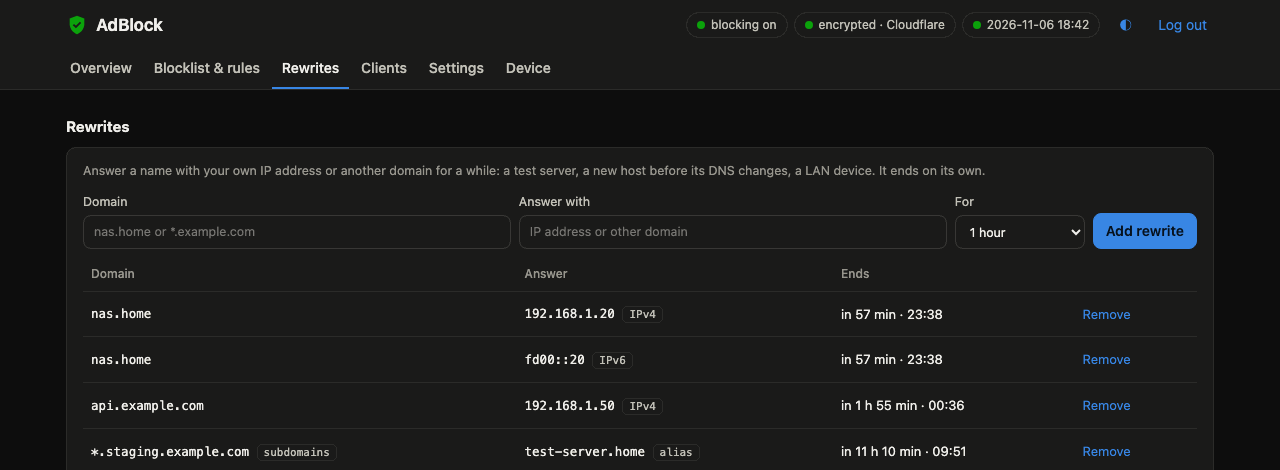
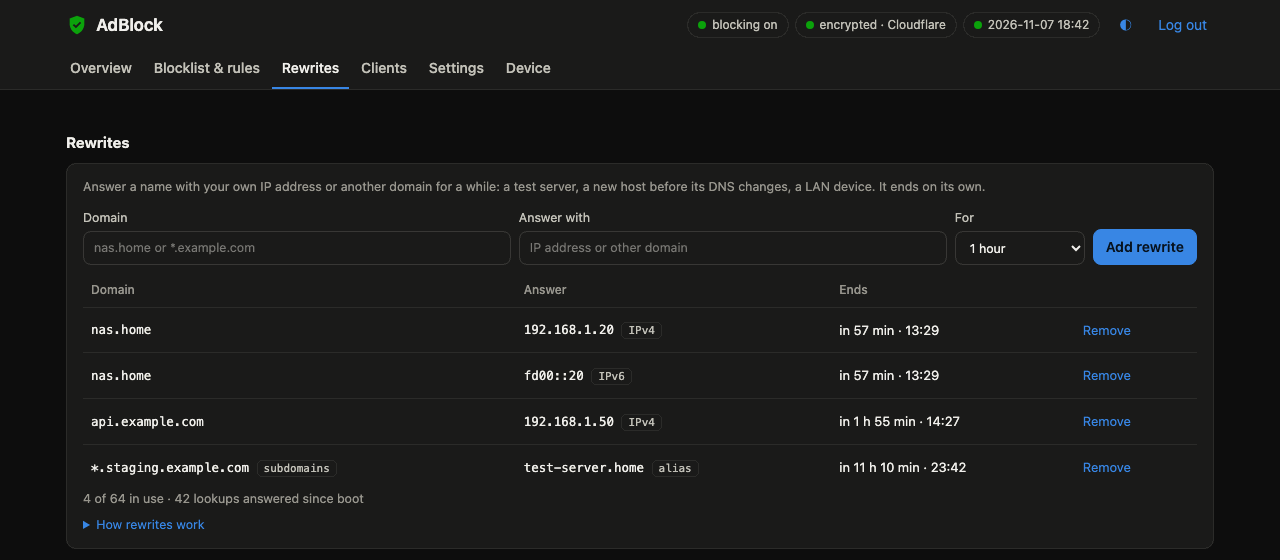
docs: document settings backup and scheduled reboot; new screenshots
- README: highlights, features, a Settings screenshot, sections on
  backup/restore and scheduled reboot, time zone dropdown in quick start;
  the Rewrites screenshot is recaptured so it no longer ends mid-row.
  Images palette-compressed (FASTOCTREE, ~70% smaller).
- ARCHITECTURE: §8 rewritten to match the code (form fields, not JSON),
  §8.1 settings file format and import rules, §8.2 reboot rules, module
  list and PSRAM budget.
- Skills: new test folders (native-tests); dropdown helpers, time zone
  table and headless-Chrome capture gotchas (web-ui).

diff --git a/docs/ARCHITECTURE.md b/docs/ARCHITECTURE.md
@@ -98,14 +98,17 @@ lib/core/                     portable C++17, unit-tested natively (pio test -e 
               matcher.{h,cpp}     custom allow/block sets + parent-domain matching
   rules/      rewrites.{h,cpp}    timed DNS rewrites: input validation, exact/wildcard
                                   matching, alias chains, loop checks, /rewrites.txt
+              rule_domain.{h,cpp} normal form of custom block/allow rule domains
   cache/      response_cache.{h,cpp}  fixed-pool LRU + TTL, slab payloads
   upstream/   transport.h         ITransport (strategy interface)
               framing.{h,cpp}     DoT 2-byte length framing, DoH HTTP/1.1 codec
               health.{h,cpp}      per-upstream health state machine
               forwarder.{h,cpp}   ordered fallback chain, in-flight table, hedging
   sched/      daily_scheduler.{h,cpp}  02:00 local trigger, retry, dedupe
+              reboot_schedule.{h,cpp}  optional daily/weekly reboot (§8.2)
   update/     updater.{h,cpp}     download -> validate -> swap, boot recovery
   config/     config.{h,cpp}      settings, validation, NVS, upstream chain builder
+              backup.{h,cpp}      settings file export/import and validation (§8.1)
   auth/       auth.{h,cpp}        password hashing, setup code, lockout, Host/Origin,
                                   login sessions
   diag/       restart.{h,cpp}     restart cause names, crash-record summary and
@@ -114,7 +117,8 @@ lib/core/                     portable C++17, unit-tested natively (pio test -e 
               pause_timer.h       pause blocking for N s or until resumed (64-bit ms)
   hal/        clock.h, random.h, kv_store.h, file_system.h, http_client.h,
               logger.h            hardware-abstraction interfaces
-  util/       crc32, sha256 (+HMAC, PBKDF2), civil_time, bytes
+  util/       crc32, sha256 (+HMAC, PBKDF2), civil_time (+weekday, HH:MM), bytes,
+              json (settings-file reader/writer)
 
 src/                          ESP32 only (Arduino core 3.3.12 / ESP-IDF 5.5)
   main.cpp                    composition root: builds objects, injects
@@ -671,25 +675,76 @@ automatically. This is a circuit-breaker with exponential backoff.
 
 ## 8. Configuration
 
-- **`Config` struct** (core, validated):
-  - upstream list and order;
-  - `allow_plain_fallback`, EDNS padding, AD pass-through;
-  - `blocked_ttl`;
-  - blocklist URL, update hour/minute (default 02:00), timezone (default
-    `UTC0`);
-  - cache size, local-answer toggles, dashboard user and password hash.
-- **Storage:** stored in NVS through `IKeyValueStore` (namespace `cfg`, with a
-  `schema` version key for migrations).
-- **Dashboard updates:** `POST /api/config` takes JSON. The values are validated,
-  stored, and applied live where possible (upstreams, TTLs, schedule); otherwise
-  the device reboots.
+- **`config::AppConfig`** (`lib/core/config`, validated field by field with
+  `setField()` and as a whole with `validate()`): upstream providers and the custom
+  DoT server, DoH and plain fallbacks, padding, AD pass-through, blocked TTL, local
+  answer toggles, time zone (POSIX TZ, default `UTC0`), log level, and the reboot
+  schedule (`rb_mode`, `rb_day`, `rb_time`). The blocklist URL and update time belong
+  to `BlocklistManager` (own NVS keys); rules and bans live in LittleFS files.
+- **Storage:** NVS through `IKeyValueStore`, one key per field plus `cfg_ver`
+  (schema version; firmware never loads settings written by a newer schema). New keys
+  are additive: older settings load with defaults for them.
+- **Dashboard updates:** `POST /api/config` takes form fields named like the NVS keys.
+  The batch is validated, saved, and applied live (time zone, log level, reboot
+  schedule); upstream changes restart the device (`requiresRestart()`).
 - **`secrets.h`** (gitignored; `secrets.example.h` is committed) only provides
-  first-boot defaults:
-  - optional Wi-Fi credentials;
-  - initial dashboard password;
-  - OTA password;
-  - optional firmware-signing public key.
-  - Values set on the dashboard override them.
+  first-boot defaults: optional Wi-Fi credentials, the initial dashboard password and
+  the OTA password. Values set on the dashboard override them.
+
+### 8.1 Settings file (export / import)
+
+`lib/core/config/backup.{h,cpp}` with a small JSON reader/writer (`util/json`). A file
+(abridged: `settings` holds every `config::kKeys` entry):
+
+```json
+{
+  "format": "esp32-s3-adblock-settings",
+  "version": 1,
+  "firmware": "0.4.0",
+  "hostname": "s3adblock",
+  "exported": "2026-11-07 14:02",
+  "settings": { "up_pri": "cloudflare", "pad": true, "blk_ttl": 10, "rb_mode": "weekly" },
+  "blocklist": { "url": "", "time": "02:00" },
+  "rules": { "block": ["ads.example.com"], "allow": [] },
+  "bans": ["192.168.1.50"]
+}
+```
+
+- **Export** (`GET /api/settings/export`, logged in): always complete. `url` is empty
+  for the built-in list, so a later default change still applies. Never includes
+  passwords, Wi-Fi credentials, rewrites (temporary) or statistics.
+- **Import** (`POST /api/settings/import`, multipart, logged in + CSRF checks): the
+  upload goes into one PSRAM buffer sized from Content-Length (at most 640 KB:
+  2 × 1000 rules of 253 characters), then `parseBackup()` validates the **whole** file
+  before anything is applied. Settings go through the same `setField()`/`validate()` as
+  the form (starting from the current values, so a file with a few keys changes only
+  those); rule domains use the same normal form as the dashboard
+  (`rules/rule_domain`), duplicates collapse; bans must be IPv4. The first problem is
+  reported with its path (`rules.block: invalid domain "…"`).
+- **Semantics:** a section present replaces that part (rules and bans as whole lists);
+  a missing section leaves it unchanged. `format` and `version` are required; a higher
+  `version` is refused (newer firmware), unknown keys are skipped and counted, so a
+  file from newer firmware with only new keys still imports.
+- **Parser limits** (hostile input): strict RFC 8259 syntax, nesting depth 16,
+  unsigned integers only, strings longer than their field are errors (never
+  truncated), `\u0000` and lone surrogates rejected, values decoded before validation.
+- **Apply order:** settings are saved to NVS first; if that fails nothing else changes.
+  Then blocklist URL/time, rules, bans. An upstream change restarts the device.
+
+### 8.2 Scheduled reboot
+
+`lib/core/sched/reboot_schedule.{h,cpp}`, checked every 2 s from `loop()`:
+
+| Rule                     | Why                                                                                         |
+| ------------------------ | ------------------------------------------------------------------------------------------- |
+| Clock synced, year valid | no reboot at a time nobody chose                                                            |
+| 60-minute window         | a busy board (firmware upload in progress) or a DST gap still gets it; no catch-up later on |
+| Started < 10 min before  | it has just restarted: skip the day (also stops a loop if NVS can't be written)             |
+| `rb_last` = slot date    | saved before restarting: never twice for one day, also across DST's repeated hour           |
+
+The date recorded is the slot's own day, so a 23:30 slot that fires at 00:10 belongs
+to the day before. The restart reason (`scheduled reboot (weekly, Sun 04:00)`) is kept
+in RTC memory like every deliberate restart.
 
 ---
 
@@ -841,6 +896,7 @@ blocks in one piece each, so watch the largest free block (`heapBlock` in
 | Pending-query pool (32 slots × ~5.7 KB: query, rewrite chain, reply buffer) | 0.18 MB                                                                                                                                                                                             |
 | DNS rewrite table (64 entries × ~550 B)                                     | 35 KB                                                                                                                                                                                               |
 | Stats, client table (256 clients), custom sets                              | < 0.2 MB                                                                                                                                                                                            |
+| Settings import buffer (only while an import runs, §8.1)                    | up to 0.64 MB, sized from the request; refused with 507 if it does not fit                                                                                                                          |
 | **Free**                                                                    | about 0.8 MB at a 1M-name list (4.06 MiB list + 2.75 MiB cache + pools), before Wi-Fi/lwIP buffers offloaded to PSRAM. Two 1M lists never fit: the update swaps through the file-backed bridge (§6) |
 
 ### Sockets (lwIP: `CONFIG_LWIP_MAX_SOCKETS = 16`, fixed in the prebuilt libs)

diff --git a/README.md b/README.md
@@ -41,6 +41,7 @@ blocklist every day on its own**. No Raspberry Pi, no SD card, no OS to patch.
 | **Fast**                               | Blocklist and answer cache live in RAM: repeat lookups are answered in milliseconds.                          |
 | **Dashboard**                          | `http://s3adblock.local`: live stats, clients, your own block/allow rules, pause blocking, settings.          |
 | **Temporary DNS rewrites**             | Point a name at your own IP or another domain for 15 min to 24 h (`nas.home → 192.168.1.20`); ends by itself. |
+| **Backup and scheduled reboot**        | Export all settings and rules to one file and import them on any board; optional daily or weekly reboot.      |
 | **Secure by default**                  | Password set with a one-time code from the serial console, login lockout, CSRF and DNS-rebinding guards.      |
 | **Tiny and low-power**                 | Runs from any stable 5 V USB supply; no computer to keep running.                                             |
 
@@ -132,8 +133,10 @@ The dashboard always opens on a login screen and shows nothing before you log in
 stay logged in while it is open (up to 24 h); _Log out_ is in the top bar, and
 changing the password logs out every browser.
 
-While you're there, set your **time zone** under _Settings → Privacy & blocking_
-(default `UTC0`) so the daily list update runs at night for you.
+While you're there, pick your **time zone** under _Settings → Time & scheduled reboot_
+(default UTC; the page offers your browser's zone) so the daily list update runs at
+night for you. Restoring a board? _Device → Backup & restore → Import settings_ brings
+back everything you exported before.
 
 ### 4. Point your network at it
 
@@ -179,11 +182,17 @@ and the _Overview_ should show a rising share of queries blocked.
   bad firmware updates, Wi-Fi supervision.
 - **Self-updating blocklist**: daily at 02:00 local time (configurable). Unchanged
   lists aren't downloaded again (ETag); a bad download never replaces the working list.
+- **Backup and restore**: export every setting, the reboot schedule, the blocklist
+  URL and time, your block/allow rules and banned clients to one JSON file, and import
+  it on the same or a new board. A file with an error changes nothing.
+- **Scheduled reboot** (optional): every day or once a week at a time you pick, in
+  the device's time zone, never twice in a day and never right after a start.
 - **Privacy extras**: query padding, DNSSEC "validated" flag pass-through, local
   answers for private names, and Firefox's DoH canary so Firefox keeps using it.
 - **Dashboard** at `http://s3adblock.local`: live stats, upstream health, clients,
-  block/allow rules, DNS rewrites, pause blocking, settings, firmware and blocklist
-  uploads, and a one-click update check.
+  block/allow rules, DNS rewrites, pause blocking, settings (with dropdowns for time
+  zones, times and TTLs), firmware and blocklist uploads, settings backup, and a
+  one-click update check.
 - **Secure by default**: hashed dashboard password set with a one-time code from the
   serial console, login lockout, CSRF and DNS-rebinding checks, HTTPS-only list
   downloads, LAN-only DNS answers.
@@ -272,7 +281,12 @@ Design details, memory budget and threading: [docs/ARCHITECTURE.md](docs/ARCHITE
 Everything is on the dashboard at `http://s3adblock.local` (stored in flash/NVS,
 survives updates). Its overview shows the block rate, live queries per minute, how
 queries were answered, upstream health and per-client totals; the charts are drawn from
-what the page has seen since it opened (light and dark themes):
+what the page has seen since it opened (light and dark themes).
+
+<picture>
+  <source media="(prefers-color-scheme: dark)" srcset="docs/img/settings-dark.png" />
+  <img src="docs/img/settings-light.png" alt="The Settings tab: upstream DNS, privacy options, a blocked-answer TTL dropdown, and a time zone dropdown with a weekly reboot on Sunday at 04:00" width="100%" />
+</picture>
 
 | Setting                                                                           | Default                                                    |
 | --------------------------------------------------------------------------------- | ---------------------------------------------------------- |
@@ -282,12 +296,41 @@ what the page has seen since it opened (light and dark themes):
 | Blocked answer TTL                                                                | 10 s                                                       |
 | Firefox DoH canary / iCloud Private Relay opt-out / local private reverse lookups | on / off / on                                              |
 | Blocklist URL and daily update time                                               | this repo's daily list, 02:00                              |
-| Time zone                                                                         | `UTC0` (POSIX TZ string; `<+03>-3` = UTC+3, sign inverted) |
+| Time zone                                                                         | UTC (50 zones in a dropdown, or any POSIX TZ string)       |
+| Scheduled reboot                                                                  | never (or every day / every week at a set time)            |
 | Custom block / allow rules, banned clients, pause                                 |                                                            |
 | DNS rewrites (up to 64, each 15 min to 24 h)                                      | none                                                       |
 
 `src/secrets.h` only holds first-boot defaults (Wi-Fi, initial dashboard password, the
 network OTA password). It is gitignored.
+
+### Backup and restore
+
+_Device → Backup & restore → Export settings_ downloads one JSON file
+(`s3adblock-settings-<date>-<time>.json`) with everything in the table above except
+DNS rewrites, plus your block/allow rules and banned clients. **Passwords and Wi-Fi
+are never in it**, so it is safe to keep with your notes. _Import settings_ takes that
+file back, on the same board after an erase or on a second board:
+
+- The whole file is checked first; one bad value (named in the error, e.g.
+  `rules.block: invalid domain "ads..com"`) and nothing changes.
+- Each section in the file replaces that part of the device (rules and bans as whole
+  lists); a section you delete from the file leaves that part as it is. You can edit
+  the file by hand.
+- Changing the upstream DNS restarts the device; everything else applies at once.
+- Scripts: `curl -u admin:<password> http://s3adblock.local/api/settings/export -o settings.json`
+  and `curl -u admin:<password> -H 'X-Requested-With: adblock' -F f=@settings.json http://s3adblock.local/api/settings/import`.
+
+### Scheduled reboot
+
+The device doesn't need regular restarts, but if you want one (for example after a
+router that misbehaves until clients reconnect), set _Settings → Time & scheduled
+reboot_ to _Every day_ or _Every week_ and pick the day and time (device time zone).
+The dashboard shows the next one. It waits for the clock to be set, never reboots
+twice in one day (also when daylight saving time repeats an hour), skips a day if the
+device started less than 10 minutes before, and if it was off or busy (installing
+firmware) at that time it tries for an hour and then waits for the next one. The
+reason shows under _Device → Health → Last restart_.
 
 ### DNS rewrites
 

diff --git a/.claude/skills/web-ui/SKILL.md b/.claude/skills/web-ui/SKILL.md
@@ -100,6 +100,15 @@ them** (legend lists). A new entity takes the next slot (green `#008300`, violet
 `.meter` · `.kv` (definition list) · `.chk` (checkbox + label + `<small>` help) ·
 `.fld` (label above input) · `button.primary|danger|ghost` · `#toast` (aria-live).
 
+**Prefer dropdowns** for anything with a known set of values (times, durations, time
+zones, TTLs): `tpInit(id)`/`tpSet(id,'HH:MM')`/`tpGet(id)` build a `.tp` hour + minute
+picker (5-minute steps); a form field it feeds is a hidden input set on submit.
+Fill selects from data with `setVal(select, v)`: it adds an option for a value the
+list lacks (set by a script, an import or an older page) instead of silently showing
+the first option and saving that. Time zones come from the `TZ` table in page.h (label |
+POSIX string from the IANA database | IANA names, for the browser-zone shortcut);
+verify new strings against nayarsystems/posix_tz_db `zones.csv`.
+
 `[hidden]{display:none!important}` is required: component classes set `display`.
 
 ## Security (also security-checklist)
@@ -135,3 +144,11 @@ others with injected CSS. Then compress to a 256-colour palette with Pillow's
 
 Set `updateUrl` in the mock to a local `update.json` with a higher version to see
 the update states. Check desktop and ~390 px wide, light and dark, before committing.
+
+Headless gotchas: the viewport is never narrower than **500 px** whatever
+`--window-size` says, so check phone width by loading the mock in a 390 px `<iframe>`
+from a local wrapper page. `--force-prefers-color-scheme` loses to the page's own theme
+choice: for a light/dark capture, inject `localStorage.setItem('ab.theme','light')` at
+the start of the page script. The tab highlight follows scrolling, so with other
+sections hidden, set the active tab with injected CSS (`nav.tabs a[href="#settings"]`).
+Pillow isn't in `.venv`: `uv run --no-project --with pillow python compress.py`.

diff --git a/CHANGELOG.md b/CHANGELOG.md
@@ -6,6 +6,32 @@ All notable changes to this project are documented here. The format follows
 
 ## [Unreleased]
 
+### Added
+
+- **Settings backup and restore** (_Device → Backup & restore_): export the settings,
+  reboot schedule, blocklist URL and update time, custom block/allow rules and banned
+  clients to one JSON file, and import it on the same or another board. The whole file
+  is validated first and a bad one changes nothing (the error names the field);
+  sections missing from a file are left as they are. Passwords, Wi-Fi and rewrites are
+  never exported. Scriptable: `GET /api/settings/export`, `POST /api/settings/import`.
+- **Scheduled reboot** (_Settings → Time & scheduled reboot_): never (default), every
+  day, or once a week, at a time in the device's time zone. The dashboard shows the
+  next one; it waits for the clock, never runs twice in a day (DST included), skips a
+  day right after a start, and waits while firmware is being installed. The reason
+  shows under _Last restart_.
+
+### Changed
+
+- **Dropdowns instead of typing**: time zone (50 common zones with daylight saving
+  rules, a _Use this browser's time zone_ shortcut, or a custom POSIX string),
+  blocklist update time and reboot time (hour and minute), blocked-answer TTL, and
+  readable upstream and log-level names.
+- The blocklist update time is checked strictly (`HH:MM`); `2:5x` used to be read as
+  02:05.
+- README: a Settings screenshot, a tidier Rewrites one (no longer cut off mid-row), and
+  sections on backup and scheduled reboot. New images are palette-compressed (~70%
+  smaller).
+
 ## [0.3.0] - 2026-11-06
 
 Temporary DNS rewrites: point any name at your own IP address or another domain for

diff --git a/.claude/skills/native-tests/SKILL.md b/.claude/skills/native-tests/SKILL.md
@@ -34,6 +34,11 @@ test/
   test_netsim/test_main.cpp      90 days of bad internet: scheduler + updater + watchdog
   test_local_zones/test_main.cpp localhost, canary domains, private reverse zones
   test_util/test_main.cpp        CRC-32, civil time, SHA-256/HMAC/PBKDF2 vectors, paced send
+  test_json/test_main.cpp        JSON reader/writer (malformed input, depth, escapes),
+                                 weekday/addDays/HH:MM parsing
+  test_reboot/test_main.cpp      scheduled reboot: window, DST, midnight, fresh boot, once a day
+  test_backup/test_main.cpp      settings file round trip, every rejection path, rb_* keys,
+                                 rule-domain normal form
 ```
 
 Each `test_<area>` folder is a separate binary. Only folders starting `test_` are run.
